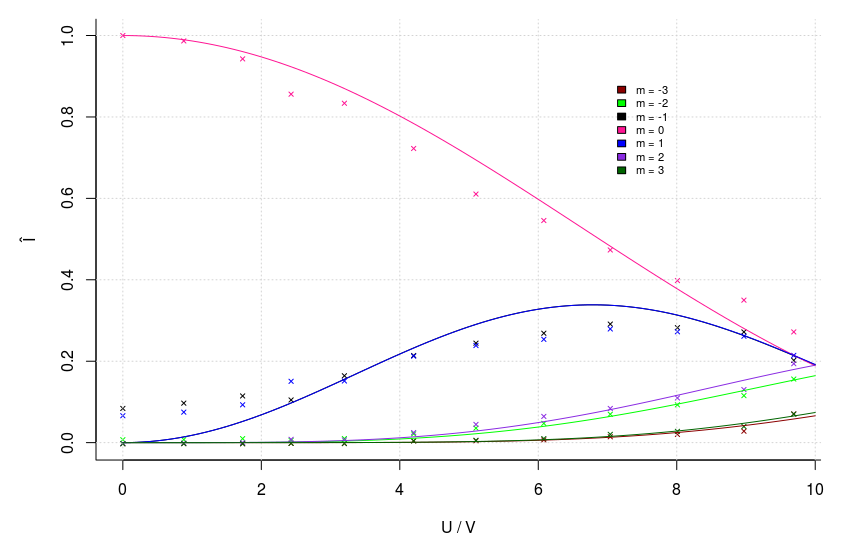
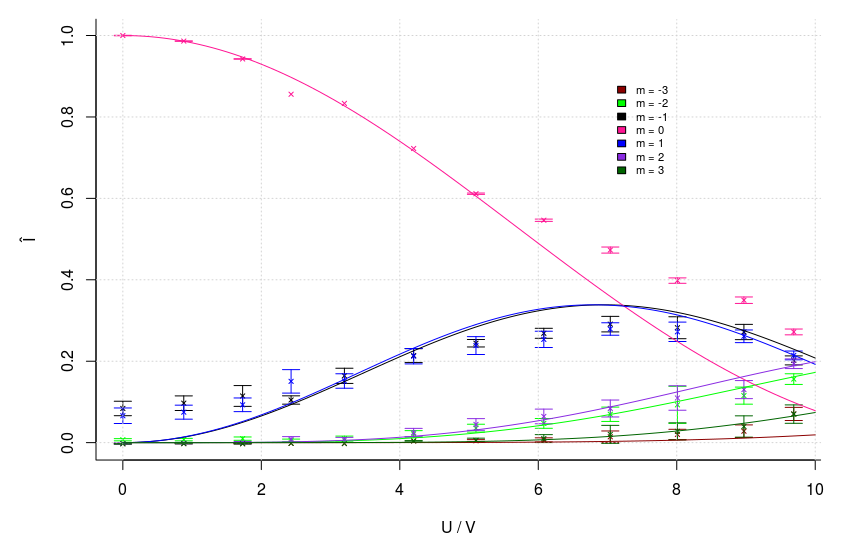
oijfdih

diff --git a/ultraschall.tex b/ultraschall.tex
@@ -306,7 +306,7 @@ I_m = J_m^2 \left( \frac{\Delta n D 2 \pi}{\lambda} \right) = J_m^2\left(\alpha 
 \newpage
 \section{Genereller Versuchsaufbau und Durchführung}
 
-\gra{Versuchsaufbau}{Versuchsaufbau}
+\gra[1]{Versuchsaufbau}{Versuchsaufbau}
 \section{Sinusgitter}
 
 \newpage
@@ -319,7 +319,7 @@ In diesem Teil des Versuchs wird ein vereinfachter Versuchsaufbau benutzt. Ein L
 \newpage
 \subsection{Auswertung}
 
-Aus den gemessenen Koordinaten der Punkte $P(x/y)$ der Maxima (siehe \ref{Laborheft})berechnen wir zunächst die Abstände $l_1 = \sqrt{x_1²+y_1²}$ und $l_2= \sqrt{x_2²+y_2²} $ zwischen dem Maximum $0.$ Ordnung und den Maxima $1.$ Ordnung. Aus den beiden Abständen zum linken und rechten Maximum $1.$ Ordnung berechnen wir einen gemittelten Abstand $l_{ges}$. Die Fehler berechnen wir mit Gauß'scher Fehlerfortpflanzung aus dem Fehler $s_{x/y}$ auf die Koordinaten:
+Aus den gemessenen Koordinaten der Punkte $P(x/y)$ der Maxima (siehe \ref{Laborheft})berechnen wir zunächst die Abstände $l_1 = \sqrt{x_1²+y_1²}$ und $l_2= \sqrt{x_2^2+y_2^2} $ zwischen dem Maximum $0.$ Ordnung und den Maxima $1.$ Ordnung. Aus den beiden Abständen zum linken und rechten Maximum $1.$ Ordnung berechnen wir einen gemittelten Abstand $l_{ges}$. Die Fehler berechnen wir mit Gauß'scher Fehlerfortpflanzung aus dem Fehler $s_{x/y}$ auf die Koordinaten:
 
 \begin{align*}
 s_{l_1} = s_{l_2} &= \sqrt{\left(\del[l]{x}\cdot s_{x/y}\right)^2+\left(\del[l]{y}\cdot s_{x/y}\right)^2}\\
@@ -413,7 +413,7 @@ Da das Oszilloskop eine Zeitdifferenz zwischen den Maxima angibt und keine Winke
 \end{table}
 \vskip 10 pt
 
-\gra{Zeiteichung}{Zeit-Winkel-Eichung\label{EINHORN}}
+\graTwo[0.49]{referenzgitter}{Zeiteichung}{Zeit-Winkel-Eichung\label{EINHORN}}
 
 Aus der Steigung des Linearen Fits (siehe Abbildung \ref{EINHORN} ) lässt sich nun der Faktor für die Umrechnung von Zeit nach Winkeln bestimmen:
 
@@ -530,30 +530,54 @@ In Abbildung \ref{besselfits} wird nun die normierte Intensität über die Spann
 		\begin{tabular}{c|c}
 			
 			m&$\alpha$\\\hline
-			-3&$0,271\pm0,005$\\
-			-2&$0,225\pm0,003$\\
-			-1&$0,271\pm0,012$\\
-			 0&$0,164\pm0,004$\\
-			 1&$0,271\pm0,012$\\
-			 2&$0,243\pm0,004$\\
+			-3&$0,2\pm0,4$\\
+			-2&$0,231\pm0,009$\\
+			-1&$0,265\pm0,010$\\
+			 0&$0,190\pm0,004$\\
+			 1&$0,271\pm0,009$\\
+			 2&$0,250\pm0,005$\\
 			 3&$0,280\pm0,003$\\			
 		\end{tabular}
 		\caption{Fitparameter $\alpha$ der Besselquadratfits (siehe Formel (\ref{besselquadratfunktion}))\label{besselfitdaten}}
 		}
 \end{table}
 
-\subsubsection{Bestimmung der Wellenlänge von Isooktan}
+\subsubsection{Bestimmung der Wellenlänge von Isooktan}\label{isooktan}
 Aus den Abständen der Beugungsordnungen der Interferenz an der Schallwelle kann nun, analog zu \ref{amplitudengitterkonstante}, die Wellenlänge der Schallwelle bestimmt werden: $$m=\frac{\Lambda}{\lambda}\sin\theta$$
 Hierzu wird das Beugungsmuster bei 9.69 V benutzt, da dies die meisten erkennbaren Maxima aufweist (siehe Abbildung \ref{regenbogen}).
 In Abbildung \ref{schallwellenlaenge} haben wir durch einen linearen Fit die Steigung $a=\frac{m}{\sin\theta}$ bestimmt. Daraus erhalten wir die Wellenlänge der Schallwelle mit:
 $$\Lambda=a\cdot\lambda=(557\pm2) \,\mathrm{\mu m}$$
 \gra{schallwellenlaenge}{Bestimmung der Schallwellenlänge aus der Steigung von $m$ über $\sin\theta$\label{schallwellenlaenge}}
 
-\subsubsection{Berechnung der Wellenlänge von Isooktan}
+\subsubsection{Berechnung der Wellenlänge von Isooktan}\label{isooktanlit}
 Zum Vergleich berechnen wir die Wellenlänge der Schallwelle nun mithilfe der Frequenz und der Schallgeschwindigkeit in Isooktan. Die gemessene Frequenz beträgt: $\nu=(2092,35\pm0.03)kHz$ und für die Schallgeschwindigkeit verwenden wir den Literaturwert aus \cite{staat}: $c_{\mathrm{schall}}=1111\mathrm{\frac{m}{s}}$.
 Für die Wellenlänge erhalten wir nun: $$\Lambda=\frac{c_{\mathrm{schall}}}{\nu}=(530,982\pm0.008) \,\mathrm{\mu m}$$
 \newpage
 \subsection{Diskussion}
+Das Ziel dieses Versuchteils war die Bestätigung der Raman-Nath-Theorie (siehe \ref{Raman-Nath-Auswertung}). Wie in Abbildung \ref{besselfits} zu sehen ist, passen unsere Daten grob zu den quadrierten Besselfunktionen. Allerdings erhalten wir für die verschiedenen Beugungsordnungen deutlich abweichende Werte für die Konstante $\alpha$ (siehe Tabelle \ref{alphas}). 
+\begin{table}[h!]
+	\centering{
+		
+		\begin{tabular}{c|c}
+			
+			m&$\alpha$\\\hline
+			-3&$0,2\pm0,4$\\
+			-2&$0,231\pm0,009$\\
+			-1&$0,265\pm0,010$\\
+			0&$0,190\pm0,004$\\
+			1&$0,271\pm0,009$\\
+			2&$0,250\pm0,005$\\
+			3&$0,280\pm0,003$\\			
+		\end{tabular}
+		\caption{Fitparameter $\alpha$ der Besselquadratfits (siehe Formel (\ref{besselquadratfunktion}))\label{alphas}}
+	}
+\end{table}
+
+Deshalb können wir die Raman-Nath-Theorie hier nicht experimentell bestätigen. Unsere Daten decken allerdings nur einen kleinen Funktionsbereich der quadrierten Besselfunktion ab, weshalb sie nicht ausreichen, um eine qualifizierte Aussage über die Raman-Nath-Theorie treffen zu können.\\
+
+Aus den Abständen der Intensitätsmaxima der Interferenz an der Schallwelle haben wir die Wellenlänge der Schallwelle bestimmt (siehe \ref{isooktan}). Als Ergebnis erhielten wir: $$\Lambda=(557\pm2)\,\mathrm{\mu m}$$ Zum Vergleich berechneten wir in \ref{isooktanlit} die Wellenlänge mithilfe des Literaturwerts für die Schallgeschwindigkeit in Isooktan. Das Ergebnis hierbei ist: $$\Lambda_{\mathrm{lit}}=(530.982\pm0.008)\,\mathrm{\mu m}$$
+
+Die beiden Werte sind in der gleichen Größenordnung, stimmen aber unter der Berücksichtigung ihrer Fehler nicht überein.
 
 \newpage
 \section{Zusammenfassung und Diskussion}
